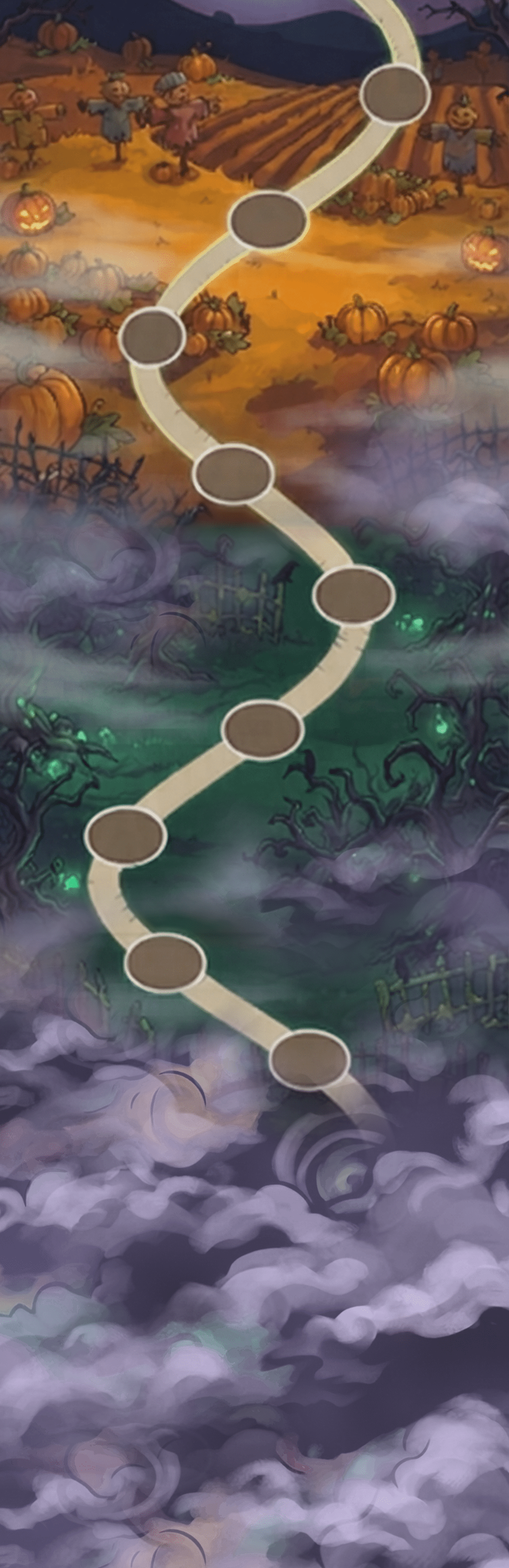
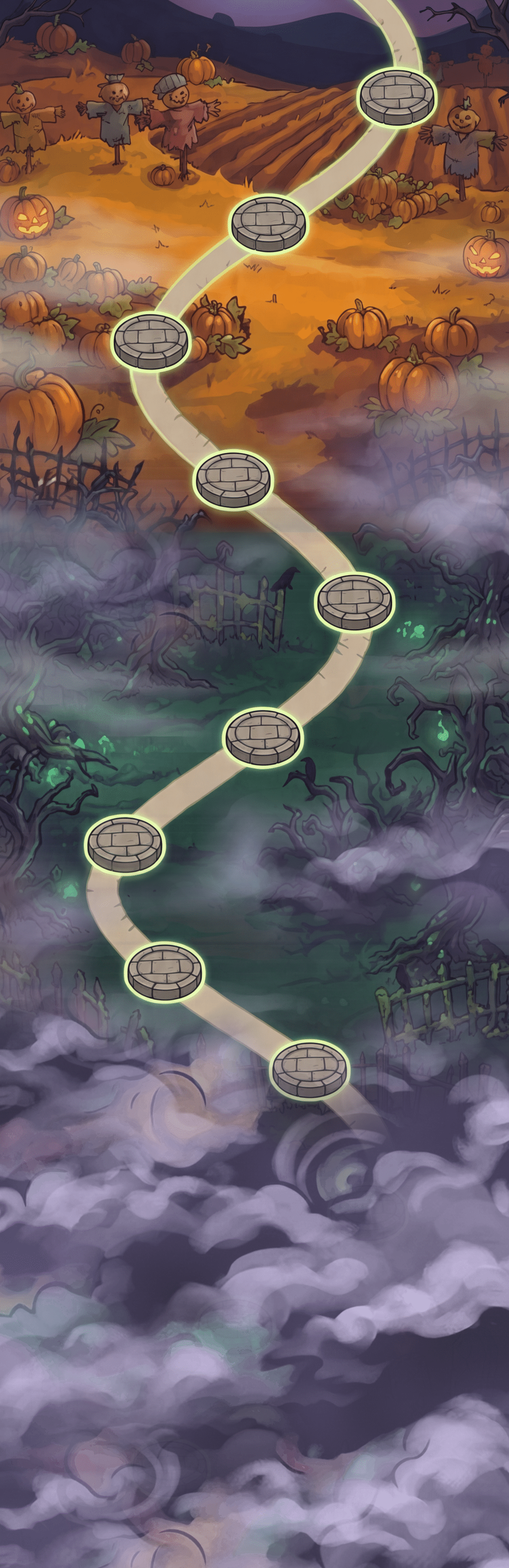
halloween: 4K map and fog meter
Maps re-rendered natively at 4K by Nano Banana 2 from the approved maps
(layout and all 12 lots unchanged; lots now stone plinths) and
downscaled to spec; zone states rebuilt with re-measured seams; native
masters added. Fog meter track/fill re-rendered at 4K, fill kept in
proportion and evened out; 4x masters added.

Claude-Session: https://claude.ai/code/session_013HbFSBnr4hEbWxBe4vtSbq

diff --git a/tools/hw_export.py b/tools/hw_export.py
@@ -12,6 +12,7 @@ import os
 import subprocess
 import sys
 
+import cv2
 import imagequant
 import numpy as np
 from PIL import Image, ImageDraw, ImageFilter
@@ -66,7 +67,10 @@ def place(im, size, fit, anchor="center", bottom_pad=0):
 
 
 def upscale(im, size):
+    """Resize to the export size; sharpen only when enlarging."""
     big = im.resize(size, Image.LANCZOS)
+    if size[0] <= im.width:
+        return big
     return big.filter(ImageFilter.UnsharpMask(radius=1.6, percent=60, threshold=2))
 
 
@@ -128,12 +132,14 @@ def save(im, rel, quality=(65, 92), dither=1.0):
 
 
 # ---------------------------------------------------------------- assets
-def map_png(kind, rel):
+def map_png(kind, rel, native=False):
     im = Image.open(src(rel)).convert("RGB")
     box = hw_map_guide.crop_box(kind)
     if im.size != hw_map_guide.GEN[kind]:  # scale the crop box if the model's size differs
         sx, sy = im.width / hw_map_guide.GEN[kind][0], im.height / hw_map_guide.GEN[kind][1]
         box = (round(box[0] * sx), round(box[1] * sy), round(box[2] * sx), round(box[3] * sy))
+    if native:  # full-resolution master: same crop, no resize
+        return im.crop(box).convert("RGBA")
     return upscale(im.crop(box), hw_map_guide.EXPORT[kind]).convert("RGBA")
 
 
@@ -145,25 +151,43 @@ def fog():
     return alpha_from_black(seamless(im).convert("RGB"), gain=1.6, max_alpha=0.85)  # "a bit transparent"
 
 
-def meter_track():
-    im = cutout(f"{R2}/meter/track")
+def meter_track(W=1200, h=48, rel=f"{R2}/meter/track_4k"):
+    im = cutout(rel)
     im = im.crop(bbox(im))
-    h = 48
     im = im.resize((round(im.width * h / im.height), h), Image.LANCZOS)
     cap = h * 2  # keep the carved end caps undistorted, stretch only the middle
     left, right = im.crop((0, 0, cap, h)), im.crop((im.width - cap, 0, im.width, h))
-    mid = im.crop((cap, 0, im.width - cap, h)).resize((1200 - 2 * cap, h), Image.LANCZOS)
-    out = Image.new("RGBA", (1200, h), (0, 0, 0, 0))
-    for part, x in ((left, 0), (mid, cap), (right, 1200 - cap)):
+    mid = im.crop((cap, 0, im.width - cap, h)).resize((W - 2 * cap, h), Image.LANCZOS)
+    out = Image.new("RGBA", (W, h), (0, 0, 0, 0))
+    for part, x in ((left, 0), (mid, cap), (right, W - cap)):
         out.alpha_composite(part, (x, 0))
     return out
 
 
-def meter_fill():
-    im = Image.open(src(f"{R2}/meter/fill")).convert("RGB")
+def meter_fill(W=1200, h=48, rel=f"{R2}/meter/fill_4k"):
+    """Cut the glowing band, scale it to height h keeping its proportions (so the swirls
+    aren't squashed), make it seamless left-right and repeat it to width W."""
+    im = Image.open(src(rel)).convert("RGB")
     b = bbox(alpha_from_black(im, gain=1.4))
-    band = im.crop((im.width // 8, b[1], im.width - im.width // 8, b[3])).resize((1200, 48), Image.LANCZOS)
-    return alpha_from_black(seamless(band, axis="x").convert("RGB"), gain=1.4)
+    # middle half of the band's height: the core of the mist, wide enough that one repeat
+    # spans about the whole bar, so no pattern shows
+    h0 = b[3] - b[1]
+    band = im.crop((im.width // 16, b[1] + h0 // 4, im.width - im.width // 16, b[3] - h0 // 4))
+    band = band.resize((round(band.width * h / band.height), h), Image.LANCZOS)
+    # even out brightness along the bar (the painting has periodic hot spots) but keep the swirls:
+    # divide each pixel by its row's heavily blurred brightness, times the row's mean
+    arr = np.asarray(band, np.float32)
+    lum = arr.mean(axis=2)
+    k = max(3, band.width // 6) | 1
+    pad = np.pad(lum, ((0, 0), (k, k)), mode="wrap")
+    blur = cv2.blur(pad, (k, 1))[:, k:-k]
+    gain = (lum.mean(axis=1, keepdims=True) + 1) / (blur + 1)
+    arr = np.clip(arr * gain[..., None], 0, 255)
+    band = seamless(Image.fromarray(arr.astype(np.uint8), "RGB"), axis="x").convert("RGB")
+    strip = Image.new("RGB", (W, h))
+    for x in range(0, W, band.width):
+        strip.paste(band, (x, 0))
+    return alpha_from_black(strip, gain=1.4)
 
 
 def house_glow():
@@ -228,8 +252,10 @@ def scene(rel, size, focus_y=0.5):
 
 
 def build():
-    yield "map/hw26-map-d.png", lambda: map_png("d", f"{R2}/map/E2")
-    yield "map/hw26-map-m.png", lambda: map_png("m", f"{R2}/map/F1")
+    yield "map/hw26-map-d.png", lambda: map_png("d", f"{R2}/map/E2_4k")
+    yield "map/hw26-map-m.png", lambda: map_png("m", f"{R2}/map/F1_4k")
+    yield "masters/hw26-map-d@native.png", lambda: map_png("d", f"{R2}/map/E2_4k", native=True)
+    yield "masters/hw26-map-m@native.png", lambda: map_png("m", f"{R2}/map/F1_4k", native=True)
     yield "map/hw26-fog.png", fog
     for z, h in HOUSES.items():
         for state, rel in (("dark", f"{R2}/house_{z}/dark"), ("open", f"{R1}/{h}"), ("done", f"{R2}/house_{z}/done")):
@@ -240,6 +266,8 @@ def build():
     yield "currency/hw26-candy.png", lambda: place(cutout(f"{R2}/candy/orange_logo"), (192, 192), (180, 180))
     yield "meter/hw26-meter-track.png", meter_track
     yield "meter/hw26-meter-fill.png", meter_fill
+    yield "masters/hw26-meter-track@4x.png", lambda: meter_track(2400, 96)
+    yield "masters/hw26-meter-fill@4x.png", lambda: meter_fill(2400, 96)
     yield "meter/hw26-lantern-on.png", lambda: place(cutout(f"{R1}/lantern/A"), (96, 96), (88, 90))
     yield "meter/hw26-lantern-off.png", lambda: place(cutout(f"{R2}/lantern/off"), (96, 96), (88, 90))
     for name, rel in (("keeper", f"{R1}/keeper/B"), ("kid", f"{R1}/kid/A")):
@@ -262,6 +290,6 @@ if __name__ == "__main__":
     for rel, fn in build():
         if only and not any(rel.startswith(o) for o in only):
             continue
-        q = (0, 95) if rel.startswith(("map/hw26-map", "modal/", "shop/hw26-shop")) else (65, 92)
+        q = (0, 95) if rel.startswith(("map/hw26-map", "masters/hw26-map", "modal/", "shop/hw26-shop")) else (65, 92)
         # dithering shows as grain on soft semi-transparent textures
         save(fn(), rel, quality=q, dither=0.0 if rel in ("map/hw26-fog.png", "meter/hw26-meter-fill.png") else 1.0)

diff --git a/tools/generate.py b/tools/generate.py
@@ -43,8 +43,8 @@ def encode_ref(path, max_side=768, bg=(208, 208, 208)):
     return {"inline_data": {"mime_type": "image/png", "data": base64.b64encode(buf.getvalue()).decode()}}
 
 
-def generate(prompt, refs, model, size, aspect="1:1", retries=5, tag=""):
-    parts = [encode_ref(r) for r in refs] + [{"text": prompt}]
+def generate(prompt, refs, model, size, aspect="1:1", retries=5, tag="", ref_max=768):
+    parts = [encode_ref(r, max_side=ref_max) for r in refs] + [{"text": prompt}]
     body = {
         "contents": [{"role": "user", "parts": parts}],
         "generationConfig": {

diff --git a/tools/hw_zone_shroud.py b/tools/hw_zone_shroud.py
@@ -28,7 +28,7 @@ BASE = os.path.join(ROOT, "halloween", "variants", "round3", "map_zones", "base"
 HAZE = np.array([66, 60, 88], dtype=np.float32) / 255
 
 # seam positions along the trail axis, measured from column/row colour steps (export px)
-SEAMS = {"desktop": [1268, 2394], "mobile": [1209, 2140]}
+SEAMS = {"desktop": [1270, 2509], "mobile": [1221, 2043]}  # re-measured on the 4K re-render
 
 
 def smooth_noise(h, w, seed, scales=((6, 0.55), (14, 0.3), (32, 0.15))):

diff --git a/halloween/docs/03-round2-and-exports.md b/halloween/docs/03-round2-and-exports.md
@@ -73,3 +73,15 @@ scripts reproduces the finals.
 | `masters/*@2048.png` | 2048 px transparent masters of all of the above | |
 
 Prompts: `concepts/round5.json`. Boards: `review/round5/`.
+
+## Higher-resolution map and fog meter (Nano Banana 2, 4K)
+
+The maps were 1.6K renders stretched to 3840×1200. They are now re-rendered natively at 4K from the approved maps
+(`variants/round2/map/E2_4k.png` 6336×2688, `F1_4k.png` 2048×8256), with the reference sent at full size and an
+instruction to keep everything in place. All 12 lots still match `hw26-map-lots.json` exactly. The lots are now drawn
+as stone plinths with a lime rim. Exports are downscaled (no longer stretched), and the zone states were rebuilt on
+the new base with the seams re-measured. Full-resolution crops: `masters/hw26-map-{d,m}@native.png`.
+
+Fog meter track and fill re-rendered at 4K (`variants/round2/meter/{track,fill}_4k.png`). The fill keeps its
+proportions (the core of the band is repeated along the bar, with brightness evened out so no pattern shows).
+Masters at 4× the on-screen size: `masters/hw26-meter-{track,fill}@4x.png` (2400×96).
